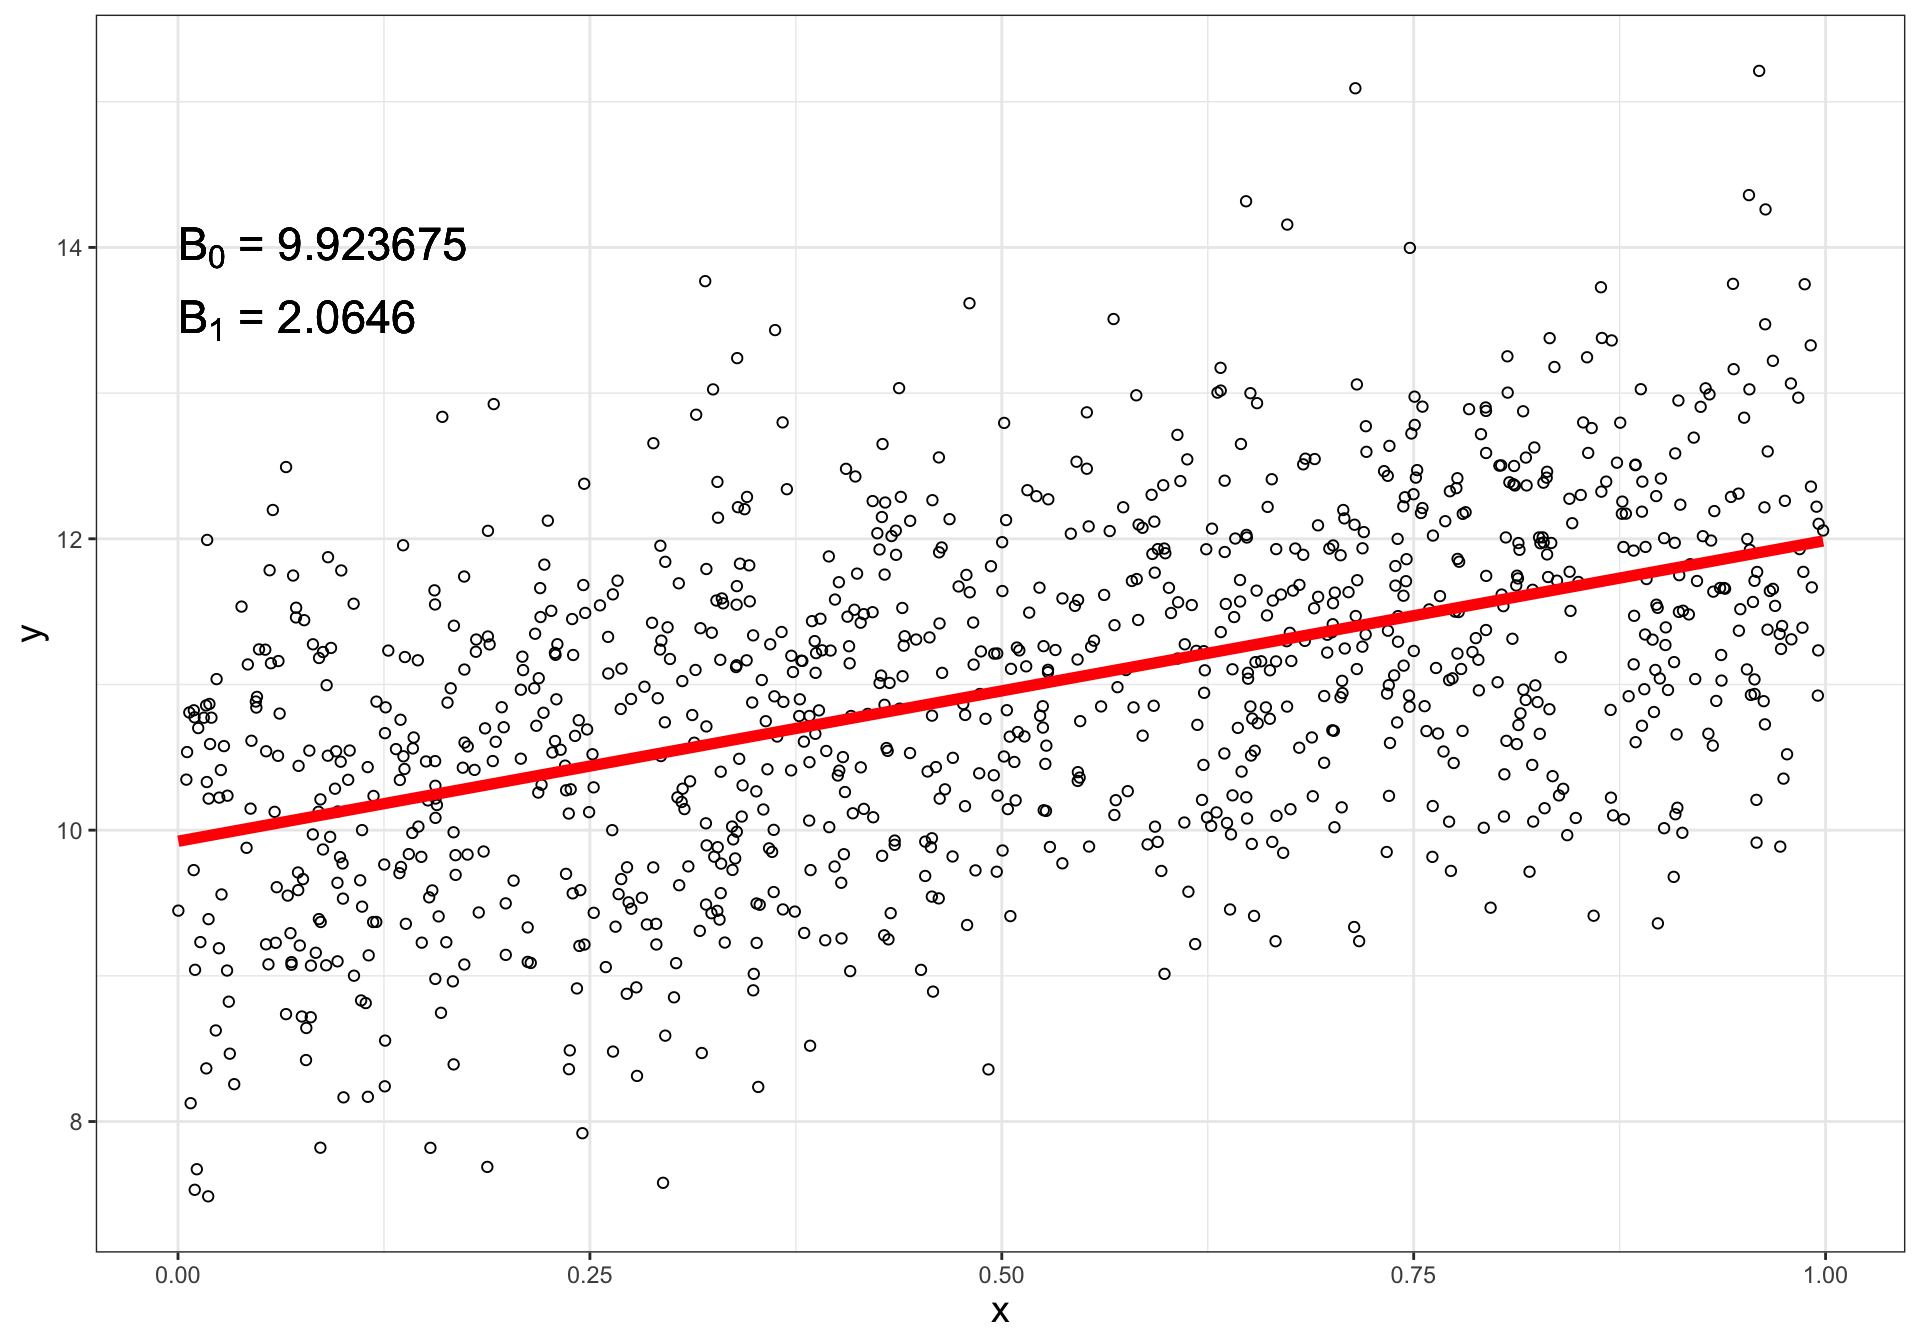
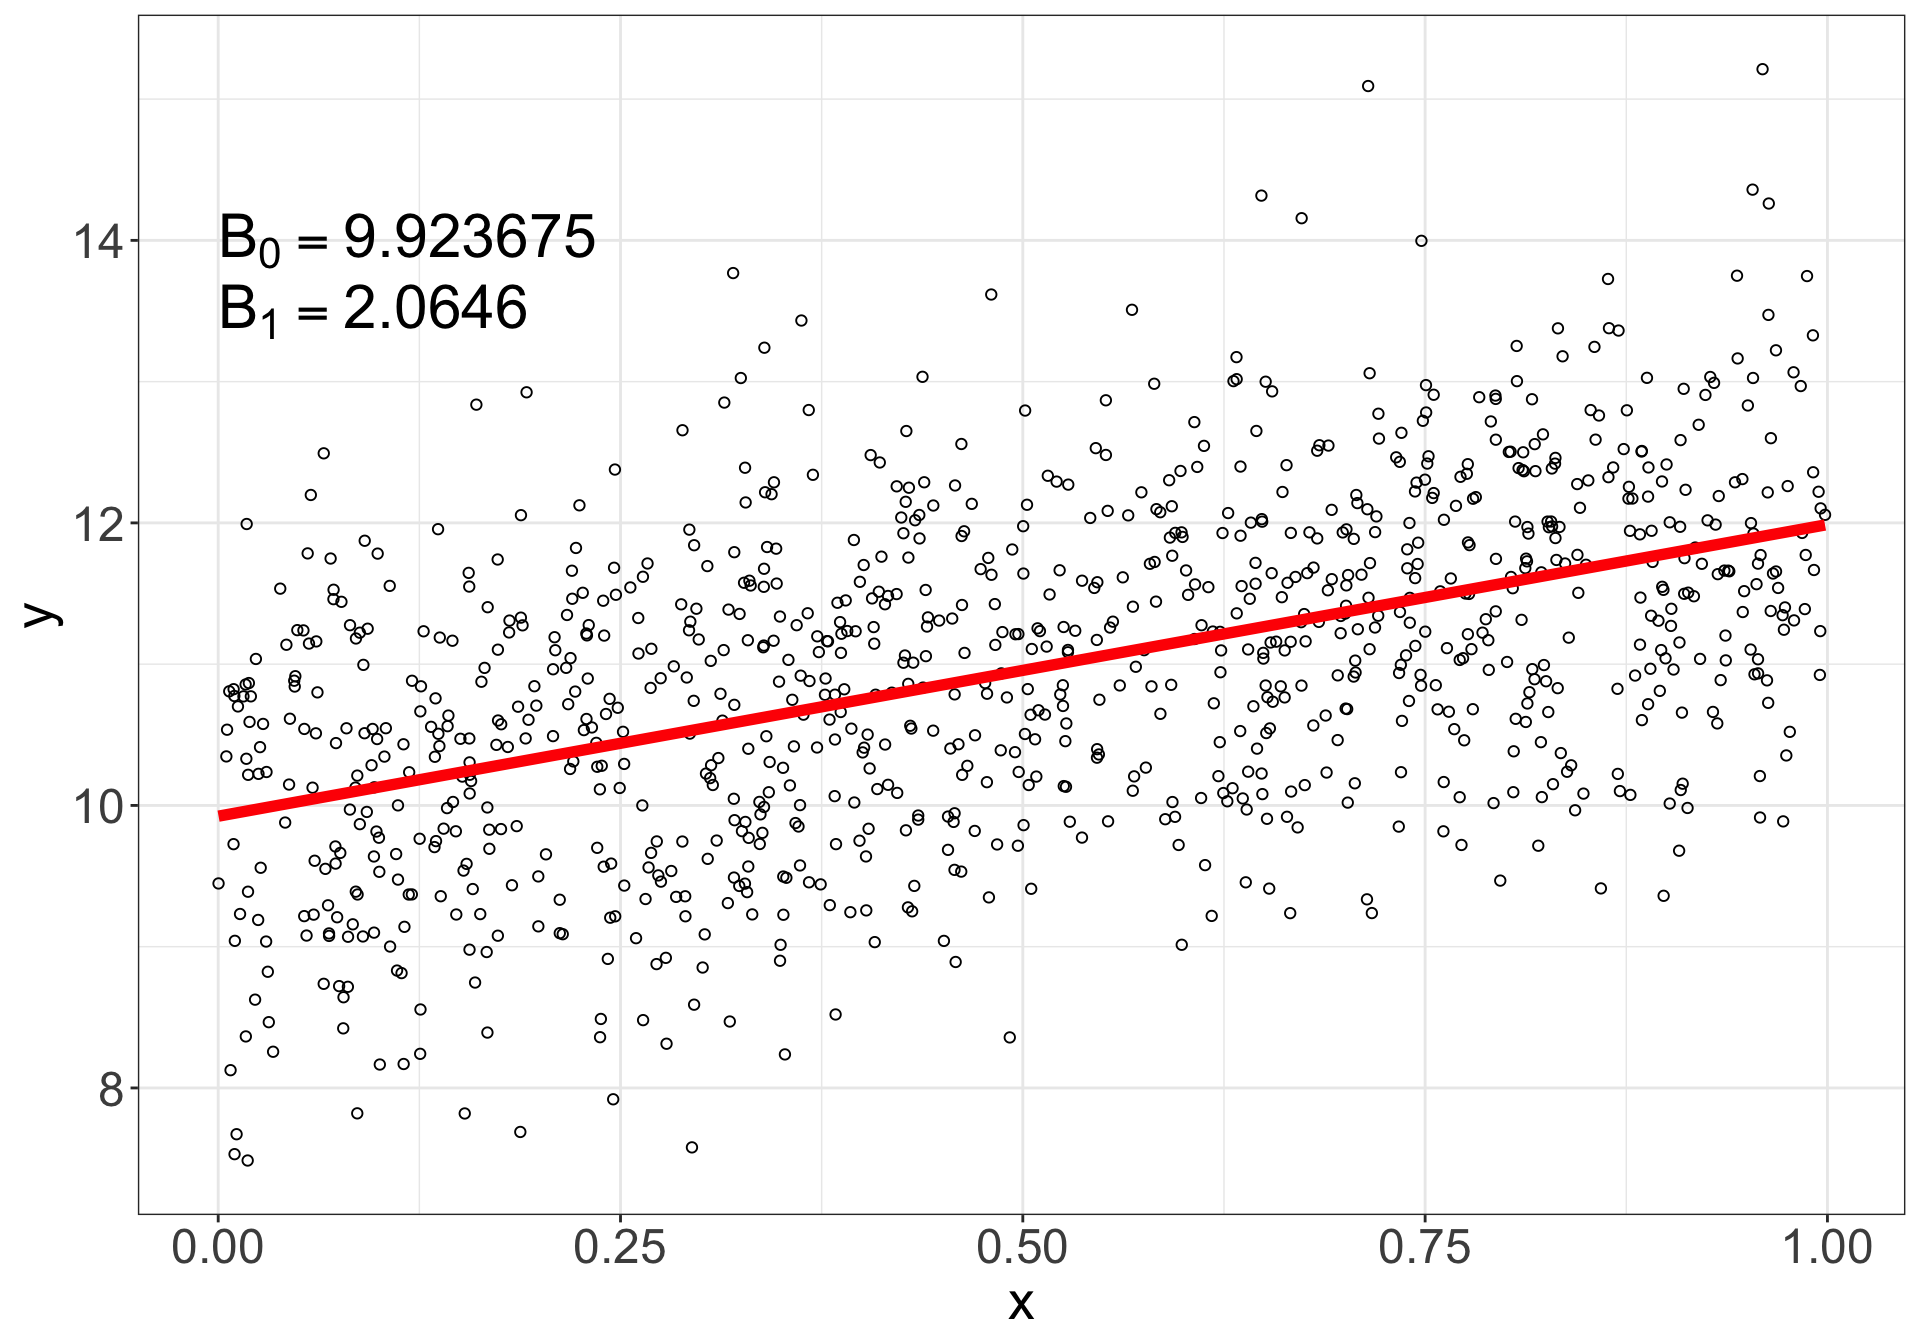
updated L20

diff --git a/docs/PUBHBIO7225_L20_linearReg.html b/docs/PUBHBIO7225_L20_linearReg.html
@@ -345,14 +345,14 @@ Generative AI acknowledgment: Google Gemini was used to assist in generating alt
 <p><strong>Unweighted</strong></p>
 <div class="quarto-figure quarto-figure-center">
 <figure>
-<p><img data-src="./figures/NMIHS_unweighted.png" class="quarto-figure quarto-figure-center" alt="A scatter plot showing the relationship between mean birthweight in grams (on the x-axis) and mean gestational age in weeks (on the y-axis). There are 19 data points plotted as circles. A straight line is drawn through the data, showing a positive linear correlation between the two variables. This line indicates that as mean birthweight increases, so does mean gestational age. The data points appear to follow this trend but are not perfectly aligned on the line."></p>
+<p><img data-src="./figures/NMIHS_unweighted.png" class="quarto-figure quarto-figure-center" alt="A scatter plot showing the relationship between mean birthweight in grams (on the x-axis) and mean gestational age in weeks (on the y-axis). There are 19 data points plotted as circles, and they form an increasing quadratic relationship. A straight line is drawn through the data, showing a positive linear correlation between the two variables. This line indicates that as mean birthweight increases, so does mean gestational age. The data points appear to follow this trend but are not perfectly aligned on the line since the true relationship is quadratic."></p>
 </figure>
 </div>
 </div><div class="column" style="width:25%;">
 <p><strong>Weighted</strong></p>
 <div class="quarto-figure quarto-figure-center">
 <figure>
-<p><img data-src="./figures/NMIHS_weighted.png" class="quarto-figure quarto-figure-center" alt="A scatter plot also showing the relationship between weighted mean birthweight in grams (on the x-axis) and weighted mean gestational age in weeks (on the y-axis). The plot contains 19 data points, represented as circles of varying sizes. The size of each circle is proportional to its weight, with larger circles appearing at higher birthweights and gestational ages. A straight line is drawn through the data, showing a positive linear correlation. Compared to the unweighted plot, this graph's data points are less scattered and more tightly clustered around the trend line, especially at the higher end of the scale, suggesting that weighting has produced a better approximation of the linear trend."></p>
+<p><img data-src="./figures/NMIHS_weighted.png" class="quarto-figure quarto-figure-center" alt="A scatter plot also showing the relationship between weighted mean birthweight in grams (on the x-axis) and weighted mean gestational age in weeks (on the y-axis). The plot contains 19 data points, represented as circles of varying sizes. The size of each circle is proportional to its weight, with larger circles appearing at higher birthweights and gestational ages. The points form an increasing quadratic relationship. A straight line is drawn through the data, showing a positive linear correlation. Compared to the unweighted plot, this graph's data points are less scattered and more tightly clustered around the trend line, especially at the higher end of the scale, suggesting that weighting has produced a better approximation of the linear trend."></p>
 </figure>
 </div>
 </div><div class="column" style="width:50%;">
@@ -549,22 +549,24 @@ Generative AI acknowledgment: Google Gemini was used to assist in generating alt
 </ul>
 </div>
 </section>
-<section id="details-cont-2" class="slide level2">
+<section id="details-cont-2" class="slide level2 pause">
 <h2>Details (con’t)</h2>
 <ul>
-<li><p><strong>Note: Subtle difference in CI interpretation from infinite population inference</strong></p>
+<li><p><strong>Note #1: Subtle difference in CI interpretation from infinite population inference</strong></p>
 <ul>
 <li>With a design-based CI, the confidence level (e.g., 95%) for a coefficient (say, <span class="math inline">\(B_1\)</span>) is the <span class="alert">sum of the probabilities of all possible samples <span class="math inline">\(\mathcal{S}\)</span></span> that could be taken with the specified design <span class="alert">for which the CI constructed from that sample will contain the true <span class="math inline">\(B_1\)</span></span></li>
 </ul></li>
 </ul>
 <p><br></p>
+<div class="fragment">
 <ul>
-<li><p><strong>Note: Survey-Weighted Regression is not Weighted Least Squares (WLS)</strong></p>
+<li><p><strong>Note #2: Survey-Weighted Regression is not Weighted Least Squares (WLS)</strong></p>
 <ul>
 <li>The point estimates you get from survey weighted linear regression will be the <strong>same as</strong> point estimates from WLS – but the standard errors <strong>will not be the same</strong>.</li>
 <li>We need the linearization estimator to properly account for the sample design</li>
 </ul></li>
 </ul>
+</div>
 </section>
 <section id="degrees-of-freedom" class="slide level2">
 <h2>Degrees of Freedom</h2>
@@ -602,7 +604,7 @@ Generative AI acknowledgment: Google Gemini was used to assist in generating alt
 <li><p>Sampled 1-2 SSUs (schools) per PSU (district)</p></li>
 <li><p>Total of 65 SSUs (schools) sampled</p></li>
 </ul></li>
-<li><p>Regression of interest is predicting API (performance index) from percent English language learners and school type (E/M/H)</p>
+<li><p>Regression of interest is predicting API (performance index) from percent English language learners and school type (Elementary/Middle/High School)</p>
 <ul>
 <li><p><strong>Option 1:</strong> DF = # PSUs <span class="math inline">\(-\)</span> # Strata = <span class="math inline">\(38 - 1 = 37\)</span></p></li>
 <li><p><strong>Option 2:</strong> DF = # PSUs <span class="math inline">\(-\)</span> # Strata <span class="math inline">\(-\)</span> # predictors excluding intercept = <span class="math inline">\(38 - 1 - 3 = 34\)</span></p></li>
